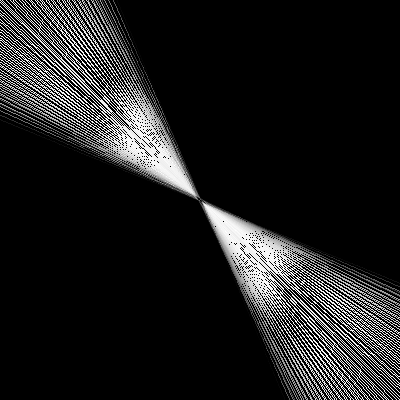
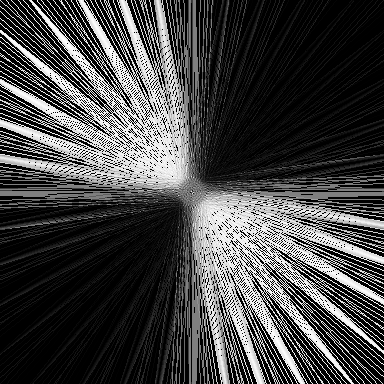
add slider

diff --git a/simulation.py b/simulation.py
@@ -17,7 +17,15 @@ def simulate(input_path, angle, detectors, span, filter, step):
     print("filtrowanie: " + str(filter))
     print("kroki pośrednie: " + str(step))
     output_dir = "./result"
-    clear_directory(output_dir)
+    sinogram_iterations_dir = "./sinogram_iterations"
+    result_iterations_dir = "./result_iterations"
+    if step == 1:
+        clear_directory(sinogram_iterations_dir)
+        clear_directory(result_iterations_dir)
+    else:
+        clear_directory(output_dir)
+    
+    step_counter = 0
 
     image = imread(input_path)
     try:
@@ -54,6 +62,13 @@ def simulate(input_path, angle, detectors, span, filter, step):
                 sinogram[e_id][d_id] = sum / points_counter
             else:
                 sinogram[e_id][d_id] = 0
+        if step == 1:
+            sinogram_step_scaled = (255.0 / np.amax(sinogram)) * sinogram
+            sinogram_step_scaled = sinogram_step_scaled.astype(np.uint8)
+            sinogram_step_image = Image.fromarray(sinogram_step_scaled.T, mode='L')
+            sinogram_step_resized = sinogram_step_image.resize(image.shape, resample=Image.NEAREST)
+            sinogram_step_resized.save(sinogram_iterations_dir + "/sinogram_iteration_" + str(step_counter) + ".png")
+            step_counter += 1
     
     sinogram_scaled = (255.0 / np.amax(sinogram)) * sinogram
     sinogram_scaled = sinogram_scaled.astype(np.uint8) # konwersja na uint8
@@ -66,9 +81,11 @@ def simulate(input_path, angle, detectors, span, filter, step):
         sinogram_filtered = filter_sinogram(sinogram)
     else:
         sinogram_filtered = sinogram
+        
     result = np.zeros(image.shape)
     norm = np.zeros(image.shape)
 
+    step_counter = 0
     for i in range(sinogram_filtered.shape[0]):
         e_coords = [int (x + r * np.cos(i * angle)), int (y + r * np.sin(i * angle))] # współrzędne emitera
         for j in range(sinogram_filtered.shape[1]):
@@ -81,14 +98,27 @@ def simulate(input_path, angle, detectors, span, filter, step):
                 if 0 <= p[0] < image.shape[0] and 0 <= p[1] < image.shape[1]:
                     result[p[0]][p[1]] += sinogram_filtered[i][j]
                     norm[p[0]][p[1]] += 1
+        if step == 1:
+            result_step = result.copy()
+            for k in range(result_step.shape[0]):
+                for l in range(result_step.shape[1]):
+                    if norm[k][l] != 0:
+                        result_step[k][l] = result_step[k][l] / norm[k][l]
+                    else:
+                        result_step[k][l] = 0
+            result_step_scaled = (255.0 / np.amax(result_step)) * result_step
+            result_step_scaled = result_step_scaled.astype(np.uint8)
+            result_step_image = Image.fromarray(result_step_scaled, mode='L')
+            result_step_image.save(result_iterations_dir + "/result_iteration_" + str(step_counter) + ".png")
+            step_counter += 1
     
     max_norm = max([max(row) for row in norm])
-    for x in range(result.shape[0]):
-        for y in range(result.shape[1]):
-            if norm[x][y] != 0:
-                result[x][y] = result[x][y] / norm[x][y]
+    for j in range(result.shape[0]):
+        for i in range(result.shape[1]):
+            if norm[j][i] != 0:
+                result[j][i] = result[j][i] / norm[j][i]
             else:
-                result[x][y] = 0
+                result[j][i] = 0
     
     result_scaled = (255.0 / np.amax(result)) * result
     result_scaled = result_scaled.astype(np.uint8)

diff --git a/app.py b/app.py
@@ -158,8 +158,18 @@ class Application(ThemedTk):
         frame = ttk.Frame(self.slider_frame)
         frame.pack()
         to = 360/int(self.angle_entry.get())
-        slider = ttk.Scale(frame, from_=0, to=to, orient='horizontal')
-        slider.grid(row=0, column=1, columnspan=1, sticky='ew', padx=(0, 10), pady=(10, 0))
+        slider = ttk.Scale(frame, from_=1, to=to, orient='horizontal')
+        slider.grid(row=0, column=1, columnspan=2, sticky='ew', padx=(0, 10), pady=(10, 0))
+
+        slider.set(to)
+        slider.bind("<Motion>", lambda event, slider=slider: self.on_slider_change(event, slider))
+        
+
+    def on_slider_change(self, event, slider):
+        slider_value = int(event.widget.get())
+        sinogram_path = f"./sinogram_iterations/sinogram_iteration_{slider_value-1}.png"
+        result_path = f"./result_iterations/result_iteration_{slider_value-1}.png"
+        self.display_images(sinogram_path, result_path)
 
     def run_simulation(self):
         simulate(self.file_path, int(self.angle_entry.get()), int(self.detectors_entry.get()), int(self.span_entry.get()),

diff --git a/dicom_handler.py b/dicom_handler.py
@@ -1,0 +1,4 @@
+from pydicom import dcmread
+
+def read_dicom_file(file_path):
+    return pydicom.dcmread(file_path)
